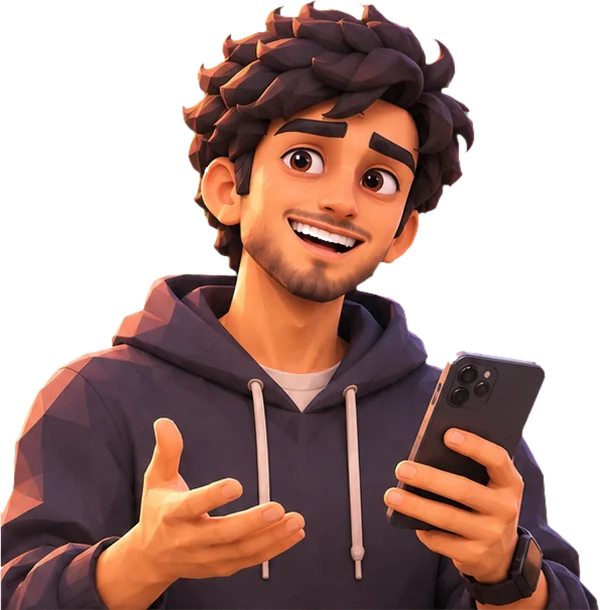
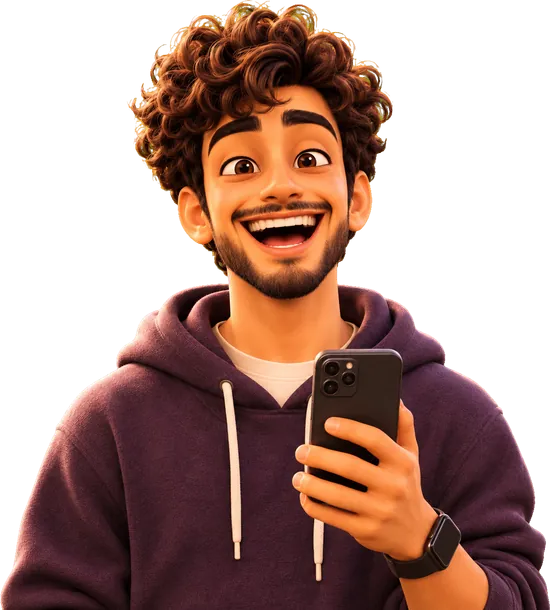
Show every hijack's character; Rusher stop rule uses box breathing
The Performer, Competitor and Intellectualizer results now open with a
big picture of their character instead of a "coming soon" silhouette.
The Rusher's stop rule swaps the 10-minute timer for one box breath
(4 in, hold 4, 4 out, hold 4). The Worker source carries the same text
so the result email matches once it is redeployed.

diff --git a/audit/index.html b/audit/index.html
@@ -362,24 +362,24 @@ button { font: inherit; color: inherit; cursor: pointer; }
       shows: ['You enter before the candle closes, then tell yourself it was a read.', 'After a loss, your next trade comes faster than your first one did.', 'Sitting flat feels like money leaving.'],
       fear: 'Underneath it is fear of falling behind. Every minute without a trade feels like you\'re losing ground. I know, because I was a Rusher too.',
       mirror: { img: 'img/rohan.webp', big: 'img/rohan-big.webp', alt: 'Rohan', who: 'You trade like Rohan.', note: 'Same lean, same speed. His story starts in Two Traders, Episode 1.', ep: 'Watch Two Traders' },
-      breaker: 'set a 10-minute timer and cut my next position to half size',
+      breaker: 'take my hands off the mouse and do one box breath (4 in, hold 4, 4 out, hold 4)',
       drill: 'Trade only on a closed candle. If it closed one second ago, wait for the next one.' },
     P: { name: 'Performer', line: 'You trade to be seen winning.',
       shows: ['You size up when someone is watching, even if it\'s just your group chat.', 'A red day feels like a public failure, even when nobody knows.', 'Wins get screenshotted. Losses get deleted.'],
       fear: 'Underneath it is fear of being seen failing. The trade stops being about price and starts being about how it looks.',
-      mirror: { img: 'img/kabir.webp', big: 'img/kabir.webp', alt: 'Kabir', who: 'You trade like Kabir.', note: 'The payout screenshot everyone saw. The trade nobody did. Two Traders, Episode 8.', ep: 'Watch Two Traders' },
+      mirror: { img: 'img/kabir.webp', big: 'img/kabir-big.webp', alt: 'Kabir', who: 'You trade like Kabir.', note: 'The payout screenshot everyone saw. The trade nobody did. Two Traders, Episode 8.', ep: 'Watch Two Traders' },
       breaker: 'close the P&L view and write one line: did I follow my process?',
       drill: 'Log your red trades first, within 10 minutes, before anything else. And no posting results for 7 days.' },
     C: { name: 'Competitor', line: 'You keep score. Against the market, and everyone else.',
       shows: ['After a loss you have to win it back, and it has to be now.', 'You add size, switch instruments or open another account to prove a point.', 'Someone else\'s payout can ruin your whole day.'],
       fear: 'Underneath it is fear of losing, to the market or to anyone. Every red trade feels like being beaten, and you can\'t leave a fight you lost.',
-      mirror: { img: '', who: 'You haven\'t met your character yet.', note: 'A Competitor walks into Two Traders soon. You\'ll recognise him.', ep: 'Follow the series' },
+      mirror: { img: 'img/competitor.webp', big: 'img/competitor-big.webp', alt: 'The Competitor', who: 'You trade like the Competitor.', note: 'Checks everyone else\'s payout before the chart. Joins Two Traders soon.', ep: 'Follow the series' },
       breaker: 'lock my next trade to the same size or smaller and close every chat and leaderboard',
       drill: 'Size-after-loss rule: after any loss, your next trade is the same size or smaller. Write it on your monitor.' },
     I: { name: 'Intellectualizer', line: 'You know everything. You execute nothing.',
       shows: ['You check one more timeframe and miss the entry, then chase it.', 'After every loss you re-backtest the whole strategy.', 'You can explain your rules better than you follow them.'],
       fear: 'Underneath it is fear of being wrong. As long as you\'re still analysing, you can\'t be wrong yet.',
-      mirror: { img: '', who: 'You haven\'t met your character yet.', note: 'An Intellectualizer joins Two Traders soon. He has notes on everything.', ep: 'Follow the series' },
+      mirror: { img: 'img/intellectualizer.webp', big: 'img/intellectualizer-big.webp', alt: 'The Intellectualizer', who: 'You trade like the Intellectualizer.', note: 'A notebook full of tabs, and the entry already gone. Joins Two Traders soon.', ep: 'Follow the series' },
       breaker: 'allow myself three checks, then let my written plan decide',
       drill: 'Write your entry checklist on one card. Three checks maximum. When all three are yes, you execute.' }
   };
@@ -914,7 +914,7 @@ button { font: inherit; color: inherit; cursor: pointer; }
   $('retake').addEventListener('click', clearHash);
 
   // Warm the character pictures during the quiz so the result card never shows an empty frame.
-  ['img/leo.webp', 'img/rohan.webp', 'img/kabir.webp', 'img/tilt_grin.webp', 'img/tilt_sad.webp'].forEach(src => { const i = new Image(); i.src = src; });
+  ['img/leo.webp', 'img/rohan.webp', 'img/kabir.webp', 'img/competitor.webp', 'img/intellectualizer.webp', 'img/tilt_grin.webp', 'img/tilt_sad.webp'].forEach(src => { const i = new Image(); i.src = src; });
   window.__audit = { Q, setAns: a => { ans = a.slice(); cur = Q.length - 1; finish(); }, score: () => score() };
   restoreFromHash();
 })();

diff --git a/workers/audit-lead/src/index.js b/workers/audit-lead/src/index.js
@@ -19,7 +19,7 @@ const TYPES = {
   Rusher: {
     line: "You trade the clock, not the chart.",
     fear: "Underneath it is fear of falling behind. Every minute without a trade feels like you're losing ground. I know, because I was a Rusher too.",
-    breaker: "set a 10-minute timer and cut my next position to half size",
+    breaker: "take my hands off the mouse and do one box breath (4 in, hold 4, 4 out, hold 4)",
     drill: "Trade only on a closed candle. If it closed one second ago, wait for the next one."
   },
   Performer: {
